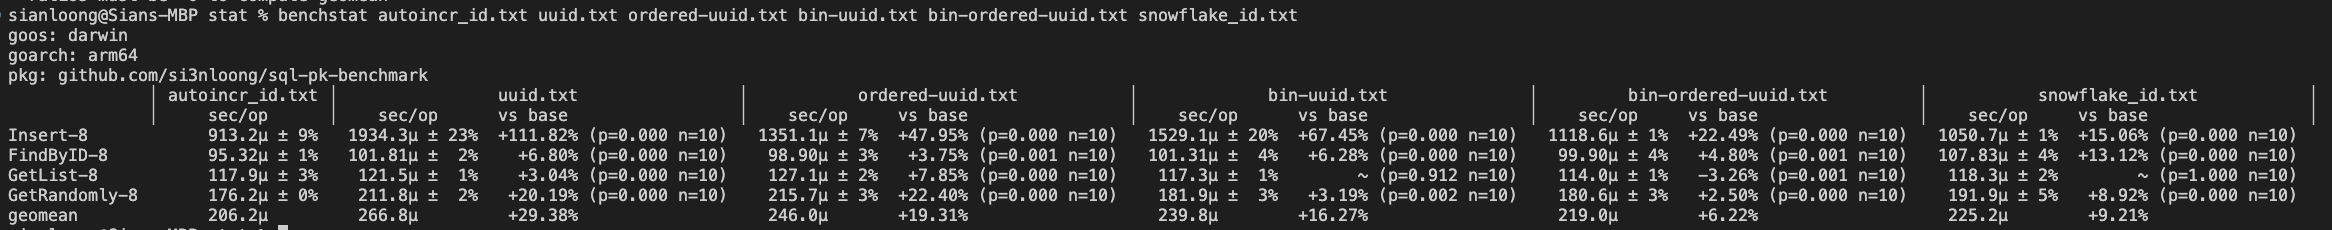
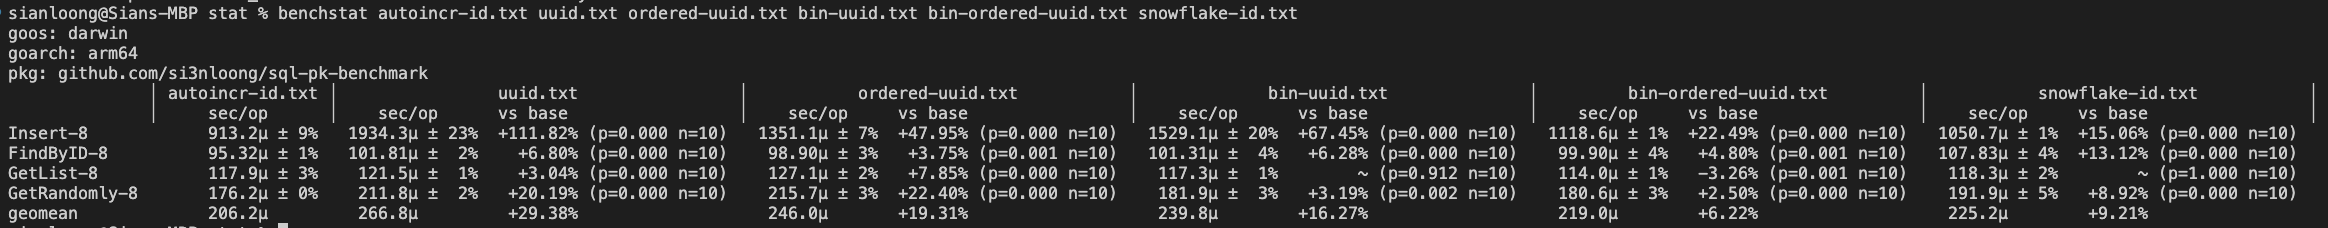
chore: rename filename for consistency

diff --git a/README.md b/README.md
@@ -44,7 +44,7 @@ benchstat stat1.txt stat2.txt stat3.txt stat4.txt stat5.txt stat6.txt
 goos: darwin
 goarch: arm64
 pkg: github.com/si3nloong/sql-pk-benchmark
-              │ autoincr_id.txt │                uuid.txt                │           ordered-uuid.txt           │             bin-uuid.txt              │         bin-ordered-uuid.txt         │           snowflake_id.txt           │
+              │ autoincr-id.txt │                uuid.txt                │           ordered-uuid.txt           │             bin-uuid.txt              │         bin-ordered-uuid.txt         │           snowflake-id.txt           │
               │     sec/op      │    sec/op      vs base                 │    sec/op     vs base                │    sec/op      vs base                │    sec/op     vs base                │    sec/op     vs base                │
 Insert-8            913.2µ ± 9%   1934.3µ ± 23%  +111.82% (p=0.000 n=10)   1351.1µ ± 7%  +47.95% (p=0.000 n=10)   1529.1µ ± 20%  +67.45% (p=0.000 n=10)   1118.6µ ± 1%  +22.49% (p=0.000 n=10)   1050.7µ ± 1%  +15.06% (p=0.000 n=10)
 FindByID-8          95.32µ ± 1%   101.81µ ±  2%    +6.80% (p=0.000 n=10)    98.90µ ± 3%   +3.75% (p=0.001 n=10)   101.31µ ±  4%   +6.28% (p=0.000 n=10)    99.90µ ± 4%   +4.80% (p=0.001 n=10)   107.83µ ± 4%  +13.12% (p=0.000 n=10)
